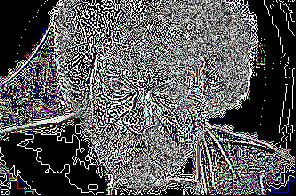
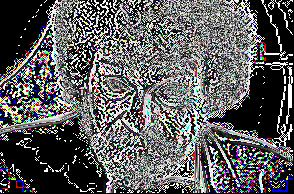
added edge55(): filter
Experimentation with larger edge detection filters

diff --git a/Main.py b/Main.py
@@ -24,21 +24,8 @@ def main():
 
     image.cropImage(70, 50, 300, 200)
 
-    filter1 = torch.tensor([[-1., -1., 1., -1., -1.],
-                            [-1., 1., 0, 1., -1.],
-                            [1., 0, 0, 0, 1.],
-                            [-1., 1., 0, 1., -1.],
-                            [-1., -1., 1., -1., -1.]])
 
-    filter2 = torch.tensor([[-1., .25, 0, 1., 0, -1.],
-                            [-1., 0, .25, 1., .25, -1.],
-                            [-1., 0, 0, 1., 0, -1.],
-                            [-1., 0, 0, 1., .25, -1.],
-                            [-1., 0, .25, 1., 0, -1.],
-                            [-1., .25, 0, 1., 0, -1.]])
-
-
-    filter = Filter.edge33()
+    filter = Filter.edge55()
     image.conv1(filter, stride=1)
     image.sigmoid()
     print(image.tensor)

diff --git a/Helper.py b/Helper.py
@@ -225,3 +225,12 @@ class Filters:
     def edge33(self):
         self.filter = torch.tensor([[0, 1., 0], [1., -4., 1.], [0, 1., 0]])
         return self.filter
+
+    def edge55(self):
+        self.filter = torch.tensor([[0, 0, 1., 0, 0],
+                                    [0, 1., -2., 1., 0],
+                                    [1., -2., 0, -2., 1.],
+                                    [0, 1., -2., 1., 0],
+                                    [0, 0, 1., 0, 0]])
+
+        return self.filter
